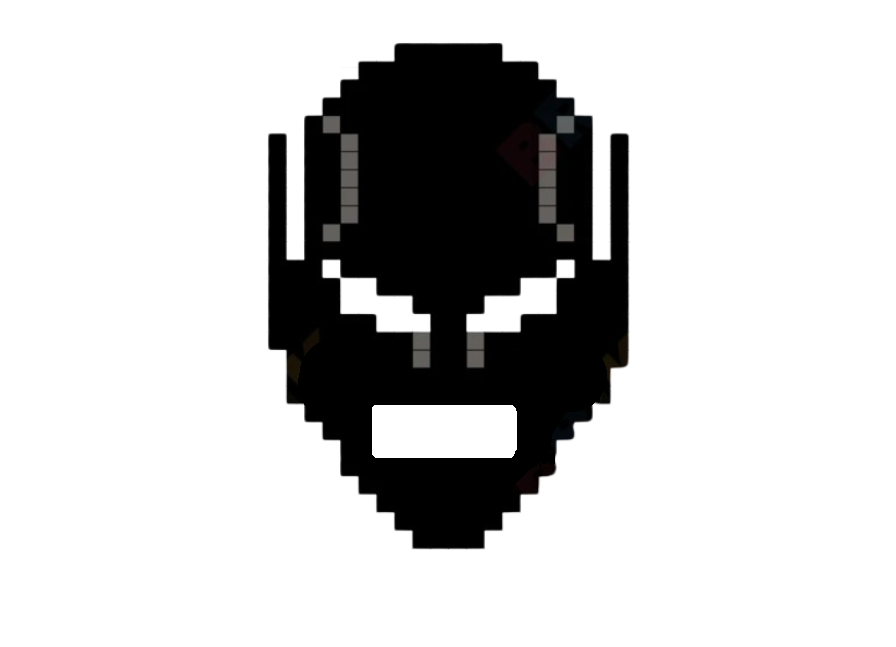
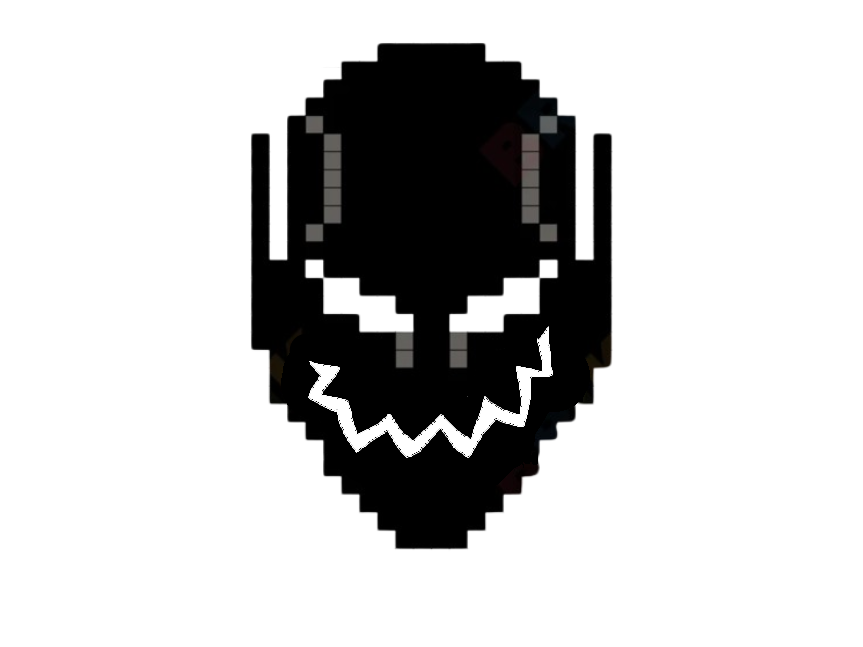
ajout d'image
l'ajout d'image va permettre que les images qui défilent ressemble plus à une personne qui parle

diff --git a/chatbot-app/app/generationImageUltron/generationImage.js b/chatbot-app/app/generationImageUltron/generationImage.js
@@ -65,11 +65,21 @@ import Image from 'next/image';
 
 export default function ImageUltron({ isSpeaking, currentLetter }) {
     const letterToImageMap = {
-        A: '/ImageBlablaUltron2d/Ultron_A.png',
-        // E: '/ImageBlablaUltron2d/Ultron_E.png',
-        I: '/ImageBlablaUltron2d/Ultron_I.png',
+        A: '/ImageBlablaUltron2d/Ultron_A,E,I.png',
+        B: '/ImageBlablaUltron2d/Ultron_B;M;P.png',
+        M: '/ImageBlablaUltron2d/Ultron_B;M;P.png',
+        P: '/ImageBlablaUltron2d/Ultron_B;M;P.png',
+        F: '/ImageBlablaUltron2d/Ultron_f,v.png',
+        V: '/ImageBlablaUltron2d/Ultron_f,v.png',
+        L: '/ImageBlablaUltron2d/Ultron_L.png',
+        R: '/ImageBlablaUltron2d/Ultron_r.png',
+        W: '/ImageBlablaUltron2d/w,q.png',
+        Q: '/ImageBlablaUltron2d/w,q.png',
+        J: '/ImageBlablaUltron2d/Ultron_ch,j,sh.png',
+        E: '/ImageBlablaUltron2d/Ultron_A,E,I.png',
+        I: '/ImageBlablaUltron2d/Ultron_A,E,I.png',
         O: '/ImageBlablaUltron2d/Ultron_O.png',
-        // U: '/ImageBlablaUltron2d/Ultron_U.png',
+        U: '/ImageBlablaUltron2d/Ultron_U.png',
     };
 
     const randomImages = [
@@ -78,7 +88,7 @@ export default function ImageUltron({ isSpeaking, currentLetter }) {
         '/ImageBlablaUltron2d/Ultron_vide.png',
     ];
 
-    const defaultImage = '/ImageBlablaUltron2d/Ultron_vide.png'; // Image par défaut
+    const defaultImage = '/ImageBlablaUltron2d/Ultron_defaut.png'; // Image par défaut
     const [currentImage, setCurrentImage] = useState(defaultImage);
 
     useEffect(() => {
